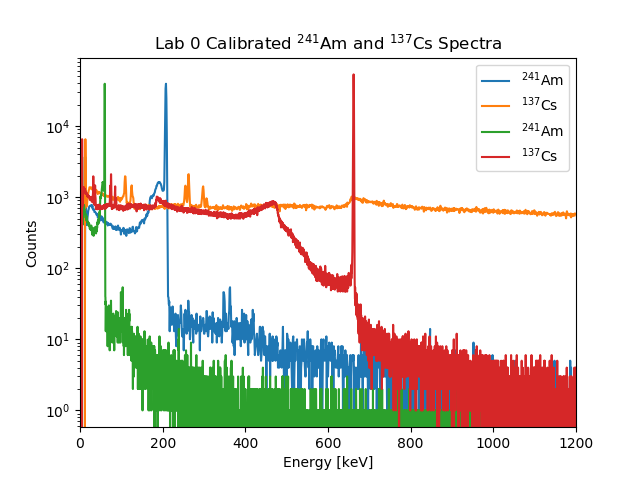
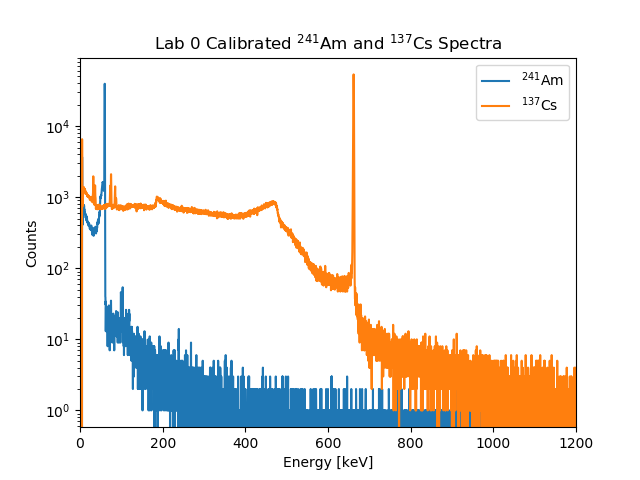
fixed make file errors, added plt.clf() to remove previous plot lines from subsequent figures, updated format in README

diff --git a/code/analysis.py b/code/analysis.py
@@ -43,6 +43,7 @@ def do_work():
     plt.ylabel("Counts")
     plt.legend()
     plt.savefig('../images/am_cs_uncalibrated.png')
+    plt.clf()
     #plt.show()
 
     csE, csDF = gammaEnergy("Cs-137")
@@ -61,6 +62,7 @@ def do_work():
     plt.legend(loc=1)
     plt.xlim(0, 1200)
     plt.savefig('../images/am_cs_calibrated.png')
+    plt.clf()
     #plt.show()
 
     ## finds points for error plotting, error is so small it does not render on linear calib plot
@@ -80,6 +82,7 @@ def do_work():
     plt.legend(loc=0)
     #plt.xlim(0, 1500)
     plt.savefig('../images/linear_fit.png')
+    plt.clf()
     #plt.show()
 
 
@@ -90,6 +93,7 @@ def do_work():
     plt.legend(loc=1)
     plt.xlim(0, 550)
     plt.savefig('../images/ba_calibrated.png')
+    plt.clf()
     #plt.show()
 
     found_list = simpleFindPeak(ba, 7, 5, energies)

diff --git a/README.md b/README.md
@@ -35,7 +35,6 @@ pip install -r requirements.txt
 #### Step 1: Download the data
 ```
 make data
-
 ```
 This will download a text file of the from dropbox with all necessary data.
 
@@ -60,7 +59,7 @@ Runs the python script which conducts a linear energy calibration of the Cs and 
 this calibration with the accepted values of the Ba gamma energies. This call will output three figures into the images
 folder as well as update two LaTeX tables for the report.
 
-### Step 5: Compile the lab report using outputs from the calibration script
+#### Step 5: Compile the lab report using outputs from the calibration script
 ```
 make
 ```
